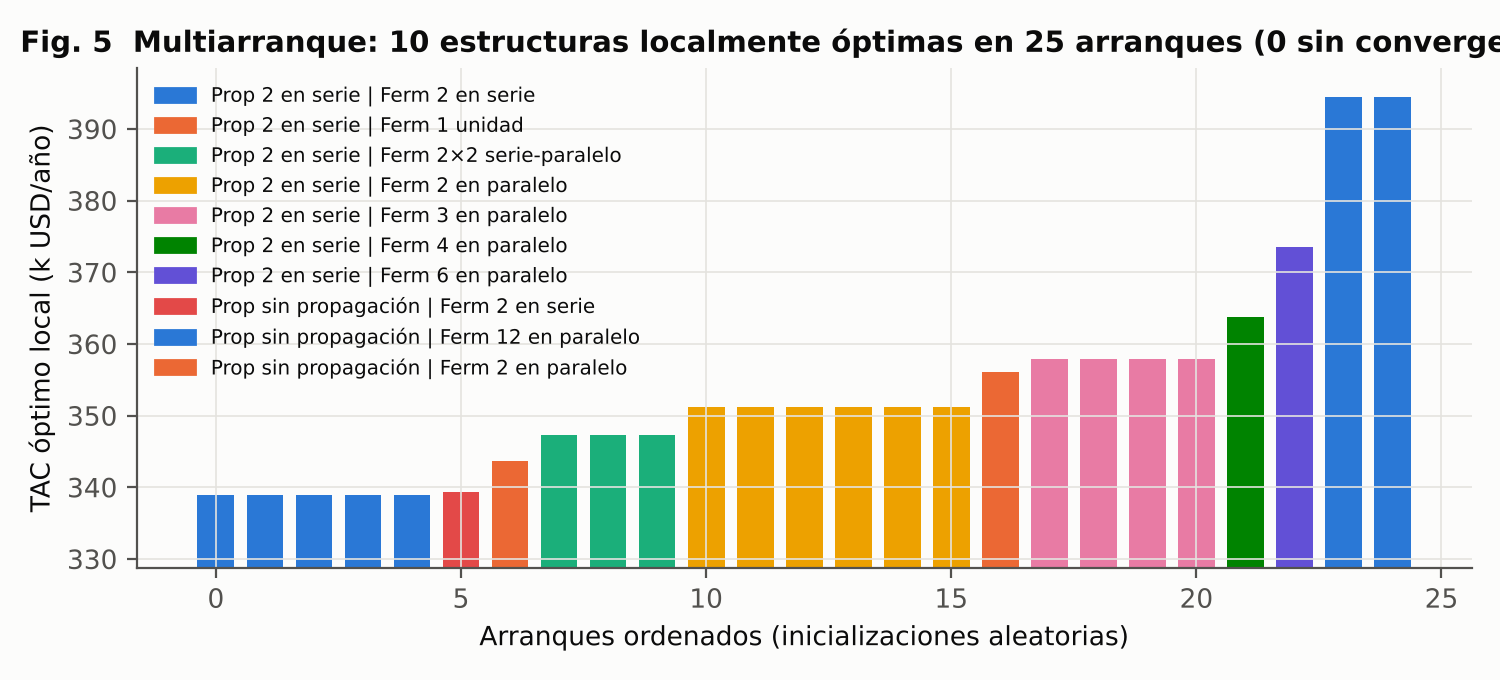
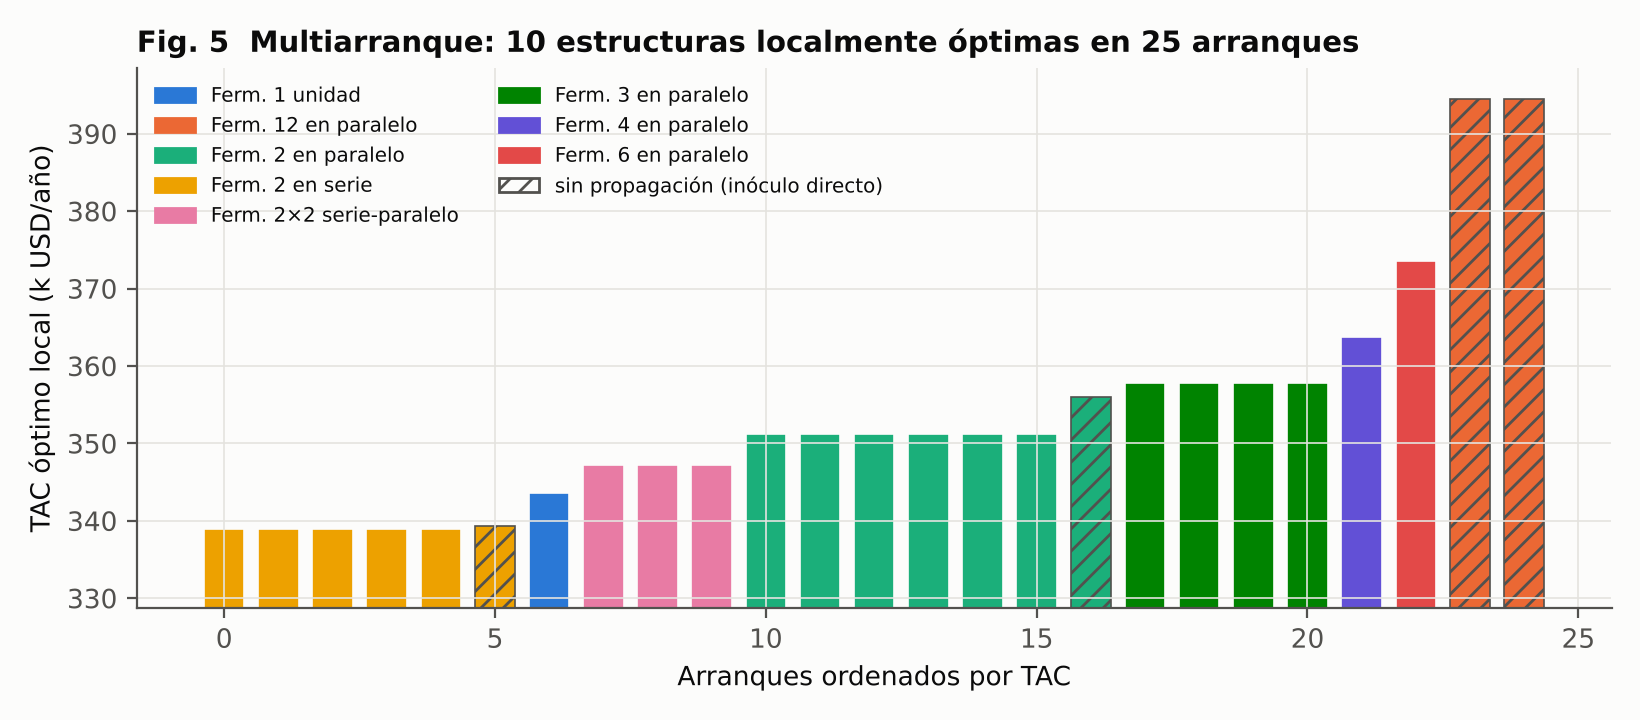
Resultados definitivos de los modelos Corsano-piña
- Sobol (640 reoptimizaciones), comparación jerárquico vs simultáneo con caso
  infactible a 1 h, pulido del mapa de estructuras (incluye 3 en serie)
- Certificación global con SCIP de un subproblema y comparación con Bonmin/IPOPT
- Modelo 2: etanol residual como DBO, asignación del hub bajo escasez
- Modelos 3-4: inóculo <= 10 %, vino >= 55 g/L, destilación dedicada entre lotes B
- Informe HTML y figuras actualizados

Claude-Session: https://claude.ai/code/session_01GdrfYiW8N2vvvUkG2sSV1b

Changed region(s): [[0.0, 0.0309, 1.0, 0.8956], [0.3067, 0.9265, 0.7667, 0.9574]]

diff --git a/modelos_pina/informe.html b/modelos_pina/informe.html
@@ -62,7 +62,7 @@ ol.edits li,ul.tight li{margin:8px 0}
   <p class="kicker">Tesis doctoral · Biorrefinería de piña · Bajo Atrato (Chocó)</p>
   <h1>Modelos de superestructura de Corsano adaptados a la biorrefinería de piña</h1>
   <p class="lede">Cuatro modelos en Python reproducen los marcos de Corsano, Montagna, Iribarren y Aguirre (2004, 2006a, 2006b, 2006c, 2007; libro de 2009). Están adaptados al tren de vino de pulpa, a la línea de etanol del hub de azúcares y a la comparación entre complejo multiplanta y planta multiproducto que la tesis deja abierta en §6.10, §9.6 y §11.3.</p>
-  <div class="meta"><span>CasADi 3.8 · IPOPT · Bonmin · SALib</span><span>Discretización trapezoidal dentro del NLP</span><span>~3 400 optimizaciones resueltas</span></div>
+  <div class="meta"><span>CasADi 3.8 · IPOPT · Bonmin · SALib</span><span>Discretización trapezoidal dentro del NLP</span><span>≈ 3 000 optimizaciones resueltas</span></div>
   <ul class="toc" id="toc">
     <li><a href="#hallazgos">Hallazgos principales</a></li>
     <li><a href="#mapa">Qué se implementó y dónde encaja en la tesis</a></li>
@@ -82,7 +82,7 @@ ol.edits li,ul.tight li{margin:8px 0}
 <div class="findings">
   <div class="finding"><div class="n">12 fermentadores</div><div class="t">La configuración de la tesis (§4.2.4) aparece sin variables binarias cuando el tiempo de llenado se limita a 1 h. Esa protección contra la oxidación cuesta +17,8 % de TAC frente al óptimo libre.</div><div class="s">Modelo 1 · Fig. 6</div></div>
   <div class="finding"><div class="n">10 óptimos locales</div><div class="t">25 arranques del mismo NLP convergen a 10 estructuras distintas, con TAC entre 338,9 y 394,5 k USD/año (16 % de dispersión). En un subproblema certificado con SCIP, Bonmin B-OA (análogo de DICOPT) queda 2–3 % por encima del óptimo global. Esto respalda empíricamente la crítica de §6.10 al uso de CONOPT.</div><div class="s">Modelo 1 · Fig. 5 y tabla E7</div></div>
-  <div class="finding"><div class="n">{{VSS}}</div><div class="t">Ahorro de la optimización simultánea de Corsano frente a la cadena jerárquica actual de la tesis (cinética, luego tiempo de ciclo fijo, luego dimensionamiento). Cuantifica la brecha que §6.10 solo enuncia.</div><div class="s">Modelo 1 · Fig. 8</div></div>
+  <div class="finding"><div class="n">7–9 %</div><div class="t">Ahorro de la optimización simultánea de Corsano frente a la cadena jerárquica actual de la tesis (cinética, luego tiempo de ciclo fijo, luego dimensionamiento). Con llenado de 1 h, la cadena jerárquica ni siquiera tiene solución con 12 fermentadores. Cuantifica la brecha que §6.10 solo enuncia.</div><div class="s">Modelo 1 · Fig. 8</div></div>
   <div class="finding"><div class="n">f ≥ 2</div><div class="t">El reciclo de vinaza de Corsano (2006b) solo se vuelve óptimo si el hub entrega azúcar concentrado al menos 2×. Con las corrientes diluidas de la piña (60–110 g/L), reciclar no compensa.</div><div class="s">Modelo 2 · Fig. 10</div></div>
   <div class="finding"><div class="n">η = 0,905</div><div class="t">Recuperación de etanol en destilación cuando el etanol residual cuenta como DBO en la ec. 38. Sin ese término, el óptimo bota el 20 % del etanol en la vinaza.</div><div class="s">Modelo 2</div></div>
   <div class="finding"><div class="n">+56 k USD/año</div><div class="t">Ventaja de la planta multiproducto con campaña AB frente al complejo multiplanta, incluida la mano de obra (9 frente a 15 operarios). Sin mano de obra, la ventaja cae a 11 k USD/año (0,4 % del beneficio). Igual que en el libro, la diferencia económica es pequeña y la decide el personal.</div><div class="s">Modelos 3–4 · Figs. 14–15</div></div>
@@ -150,7 +150,7 @@ s.a.  TL ≥ T_aj / M_aj        (ZW, fuera de fase)            Σ_a P_a·V_a ≥
 <p>El dato de Murcia Palacios (2013) es un único punto final: 65,31 g/L a 12,5 h. Un punto no puede identificar a la vez µmax y la dosis efectiva de inóculo. La Fig. 3 muestra que la ambigüedad tiene consecuencias de diseño: el tiempo de ciclo, y con él el volumen de los fermentadores, cambia 2,3 veces dentro del conjunto de parámetros compatibles con el dato. Recomendación metodológica: medir una curva temporal de al menos 6 puntos (azúcar, etanol, biomasa) y registrar la dosis de levadura viable. Hasta entonces, propagar µmax como incertidumbre, que es lo que hace el análisis de Sobol más abajo.</p>
 <h3>Óptimo base: el modelo reinventa el pie de cuba</h3>
 </div>
-<figure><img src="figs/fig04_m1_optimo_base.png" alt="Diagrama de Gantt y perfiles de concentración del óptimo base"><figcaption>Fig. 4. Óptimo base: una cascada de propagación y dos fermentadores en serie de 0,55 m³ y 10,72 m³, con TL = 10,38 h y TAC = 338,9 k USD/año (8,7 % capital, 91,3 % operación).</figcaption></figure>
+<figure><img src="figs/fig04_m1_optimo_base.png" alt="Diagrama de Gantt y perfiles de concentración del óptimo base"><figcaption>Fig. 4. Óptimo base de la superestructura original (11 alternativas): una cascada de propagación y dos fermentadores en serie de 0,55 m³ y 10,72 m³, con TL = 10,38 h y TAC = 338,9 k USD/año (8,7 % capital, 91,3 % operación). Al añadir la alternativa de 3 en serie (Fig. 7), el óptimo baja a 337,2 k USD/año.</figcaption></figure>
 <div class="prose">
 <p>La estructura elegida es la de Corsano et al. (2006b), con una unidad de biomasa y dos fermentadores en serie, y en enología corresponde al pie de cuba. Un fermentador pequeño (5 % del volumen) recibe el cultivo del propagador y mosto sin diluir, llega a X ≈ 11,7 g/L y siembra el fermentador principal con X<sub>0</sub> ≈ 0,6 g/L. El optimizador llega a esa práctica industrial sin que nadie se la imponga. El capital pesa poco (8,7 %): el TAC lo dominan el jugo y el inóculo, así que la estructura óptima se decide sobre todo por el uso del sustrato y no por el tamaño de los equipos.</p>
 </div>
@@ -165,11 +165,21 @@ s.a.  TL ≥ T_aj / M_aj        (ZW, fuera de fase)            Σ_a P_a·V_a ≥
 <h3>Mapa de estructuras: exponente de costo y escala</h3>
 </div>
 <figure><img src="figs/fig07_m1_mapa_b_escala.png" alt="Mapa de la estructura óptima según el exponente de costo y la escala de producción"><figcaption>Fig. 7. Estructura de fermentación óptima en 32 combinaciones (b, escala), después de reoptimizar cada celda con cada estructura candidata fija.</figcaption></figure>
-<div class="prose">{{E5B_TEXT}}</div>
+<div class="prose"><p>El NLP completo con 5 arranques por celda dio un mapa ruidoso. Se pulió reoptimizando cada celda con cada estructura candidata fija (8 estructuras × 2 arranques; problemas más pequeños y mejor condicionados) y tomando el mínimo, como hace Corsano (2006a, §5) con su secuencia de MINLP. El pulido mejoró 17 de las 32 celdas en más de 1 % (1,8 % en promedio y hasta 8,1 %). Detectó además que la superestructura del caso base no incluía la alternativa <b>3 en serie</b>, que resulta la mejor para b ≥ 0,5. Con ella el caso base baja de 338,9 a 337,2 k USD/año (−0,5 %) y la propagación separada desaparece: la cascada de tres fermentadores siembra con levadura seca y hace de pie de cuba.</p>
+<p>El mapa pulido es monótono y tiene interpretación física. Con b ≤ 0,4 la concavidad es tan fuerte que una unidad pequeña cuesta casi lo mismo que una grande, y el óptimo usa solo 2 fermentadores en serie. Con b ≥ 0,5 conviene un tercero. La propagación aerobia separada solo vuelve a aparecer con b ≥ 0,7, cuando los equipos pequeños dejan de ser caros. La prueba de consistencia también se cumple: con b = 1, sin economía de escala, el TAC por unidad de producción es idéntico en las cuatro escalas.</p>
+<p>Lección metodológica para §6.1 y §6.9: la superestructura sin binarias es tan buena como su lista de alternativas. Corsano (2004) fija la cota superior de unidades en serie resolviendo primero un problema relajado; omitir ese paso, como hizo aquí la primera corrida, deja fuera el óptimo sin aviso. El protocolo de verificación de la tesis debería incluir una prueba explícita de completitud de la superestructura.</p></div>
 
 <div class="prose"><h3>Jerárquico frente a simultáneo: el costo de la cadena actual de la tesis</h3></div>
 <figure><img src="figs/fig08_m1_jerarquico_vs_simultaneo.png" alt="TAC de las estrategias jerárquica, intermedia y simultánea para tres tiempos de llenado"><figcaption>Fig. 8. Jerárquico: la cinética fija T = 12,5 h y X<sub>0</sub> = 0,2 g/L de levadura seca, y después se dimensiona. Intermedio: T fijo, inóculo libre. Simultáneo: Corsano.</figcaption></figure>
-<div class="prose">{{E6_TEXT}}</div>
+<div class="prose"><div class="tbl"><table>
+<thead><tr><th>τ llenado</th><th>Jerárquico</th><th>Intermedio</th><th>Simultáneo</th><th>Ahorro total</th><th>Parte por inóculo y propagación</th><th>Parte por tiempo y estructura</th></tr></thead>
+<tbody>
+<tr><td>12,5 h</td><td class="num">364,6 (1 unidad)</td><td class="num">343,5</td><td class="num">338,9 (2 en serie)</td><td class="num">−7,1 %</td><td class="num">82 %</td><td class="num">18 %</td></tr>
+<tr><td>3 h</td><td class="num">391,8 (6 en paralelo)</td><td class="num">374,5</td><td class="num">356,4 (2×2)</td><td class="num">−9,0 %</td><td class="num">49 %</td><td class="num">51 %</td></tr>
+<tr><td>1 h</td><td class="num">infactible</td><td class="num">infactible</td><td class="num">399,2 (12 en paralelo)</td><td class="num">—</td><td class="num">—</td><td class="num">—</td></tr>
+</tbody></table></div>
+<p>TAC en k USD/año. La cadena jerárquica, que es la de la tesis (§4.2 y §6.10), cuesta entre 7,1 y 9,0 % más que la formulación simultánea de Corsano. La descomposición muestra dónde está la pérdida. Sin restricción de llenado, el 82 % del ahorro viene de optimizar el inóculo y la propagación: la cadena jerárquica fija X<sub>0</sub> = 0,2 g/L de levadura seca. Cuando la restricción de oxidación se activa (τ = 3 h), la mitad del ahorro viene de optimizar a la vez el tiempo de fermentación y la estructura: el óptimo simultáneo pasa de 6 unidades en paralelo a un arreglo 2×2. Con τ = 1 h la cadena jerárquica no tiene solución. Con T fijo en 12,5 h necesitaría al menos 13 unidades; la optimización simultánea acorta la fermentación a 12 h y cumple con 12.</p>
+<p>Esto responde la pregunta que §6.10 deja abierta, si el compromiso entre tiempo de ciclo y tamaño de reactor existe en la cinética de la tesis: sí existe, y vale entre 7 y 9 % del TAC. La justificación de tractabilidad de Kallrath (2021) sigue siendo válida para el MINLP completo. Pero la pérdida ya no es hipotética, y la tesis puede citarla como costo cuantificado de la decisión polilítica.</p></div>
 
 <div class="prose"><h3>NLP sin binarias frente a MINLP</h3>
 <p>Para comparar como en §5 de Corsano (2006a), se fijó una etapa por operación y el número de unidades en paralelo se dejó como entero (Bonmin):</p></div>
@@ -205,7 +215,12 @@ s.a.  TL ≥ T_aj / M_aj        (ZW, fuera de fase)            Σ_a P_a·V_a ≥
 <h3>Sensibilidad global (Sobol)</h3>
 </div>
 <figure><img src="figs/fig09_m1_sobol.png" alt="Índices de Sobol de primer orden y totales del TAC óptimo"><figcaption>Fig. 9. Cada muestra de Saltelli es una reoptimización completa de la superestructura con 2 arranques. Así se mide la sensibilidad del óptimo, no la de un diseño fijo.</figcaption></figure>
-<div class="prose">{{E8_TEXT}}</div>
+<div class="prose"><p>Se hicieron 640 reoptimizaciones (muestreo de Saltelli, N = 64, 8 factores) sin fallos de convergencia. El TAC óptimo varía entre 210 y 496 k USD/año (percentiles 5–95; coeficiente de variación 26 %). Los índices separan dos preguntas distintas:</p>
+<ul class="tight">
+<li><b>Cuánto cuesta.</b> El costo del jugo de rechazo explica casi toda la varianza del TAC (S1 = 0,955; ST = 0,942). Cada USD/m³ de jugo suma 7 838 USD/año. Ningún otro factor pasa de ST = 0,03: Y<sub>P/S</sub> llega a 0,029 y los parámetros de costo de equipos, el exponente b y la electricidad quedan por debajo de 0,01. El índice del jugo tiene un intervalo de confianza amplio (±0,25) por el tamaño de muestra, pero su dominancia no depende de esa incertidumbre.</li>
+<li><b>Qué se construye.</b> El número de fermentadores óptimo no depende de los precios. Depende de la cinética: correlación de −0,36 con µmax y −0,28 con Pmax. Una levadura más lenta o más sensible al etanol pide más unidades (Fig. 9, derecha). En 54 % de las muestras el óptimo tiene 2 fermentadores, en 18 % tiene 4, en 14 % uno solo y en 13 % tres.</li>
+</ul>
+<p>Para la tesis: el precio del jugo de fruta de rechazo, y con él la logística de acopio en el Bajo Atrato (§3.3), es la variable económica que más importa medir. La calibración cinética del punto 2 de la sección de cambios es la que más importa para el diseño físico.</p></div>
 </section>
 
 <section id="m2">
@@ -299,6 +314,7 @@ Campaña c: N_c · Σ_q d(c_q, c_q+1) ≤ H,    N_A = n_A(c)·N_c,   N_B = n_B(c
 <li>El inóculo se limita a ≤ 10 % del lote, con pitching ≥ 0,5 g/L, y el vino se exige ≥ 55 g/L de etanol (7,0 % v/v). Sin esas restricciones, el modelo multiproducto diluía el vino con el mosto del propagador.</li>
 <li>Solo el subproblema de una etapa tiene certificado de optimalidad global (SCIP). Para los modelos completos, el multiarranque y el pulido por estructura reducen el riesgo, pero no lo eliminan. El paso siguiente natural es llevar la formulación reformulada de <code>m1_global.py</code> a la superestructura completa con SCIP o BARON.</li>
 <li>El SPC no es una relajación de las campañas mixtas bajo espera cero (ver Modelo 3).</li>
+<li>Los experimentos E3, E4, E6 y E8 del Modelo 1 usan la superestructura original, sin la alternativa de 3 en serie. Según el pulido de la Fig. 7, incluirla baja el TAC entre 0,2 % y 8 % según la celda (0,5 % en el caso base). Las conclusiones de esos experimentos no cambian, pero las cifras absolutas quedan ligeramente sobreestimadas.</li>
 </ul>
 </section>
 

diff --git a/modelos_pina/figuras.py b/modelos_pina/figuras.py
@@ -266,10 +266,15 @@ def fig_m1_hier():
         vals = [d[t][k]["TAC"] / 1e3 if d[t][k].get("ok") else np.nan for t in taus]
         ax.bar(np.arange(len(taus)) + (q - 1) * w, vals, width=w - 0.02, color=C[q], label=lab)
     for i, t in enumerate(taus):
-        h, s = d[t]["jerarquico"]["TAC"], d[t]["simultaneo"]["TAC"]
-        ax.text(i + w, s / 1e3 + 8, f"−{(1 - s / h) * 100:.1f}%", ha="center", fontsize=8, color=INK)
+        h, s_ = d[t]["jerarquico"].get("TAC"), d[t]["simultaneo"]["TAC"]
+        if h:
+            ax.text(i + w, s_ / 1e3 + 8, f"−{(1 - s_ / h) * 100:.1f}%", ha="center", fontsize=8, color=INK)
+        else:
+            ax.text(i - w, 20, "infactible\n(>12 unidades)", ha="center", fontsize=7.5, color=INK2, rotation=90, va="bottom")
+        if not d[t]["intermedio"].get("TAC"):
+            ax.text(i, 20, "infactible", ha="center", fontsize=7.5, color=INK2, rotation=90, va="bottom")
     ax.set_xticks(range(len(taus))); ax.set_xticklabels([f"τ = {float(t):g} h" for t in taus])
-    ax.set_ylabel("TAC (k USD/año)"); ax.legend(fontsize=8)
+    ax.set_ylabel("TAC (k USD/año)"); ax.set_ylim(0, 500); ax.legend(fontsize=8, loc="upper left", ncol=3)
     ax.set_title("Fig. 8  Valor de la optimización simultánea frente a la jerárquica (§6.10 de la tesis)")
     save(fig, "fig08_m1_jerarquico_vs_simultaneo.png")
 
@@ -290,11 +295,14 @@ def fig_m1_sobol():
     ax[0].set_yticks(y); ax[0].set_yticklabels([nm[i] for i in o]); ax[0].legend(loc="lower right")
     ax[0].set_xlabel("Índice de Sobol"); ax[0].set_title("Sensibilidad global del TAC óptimo")
     X = np.array(d["X"]); Y = np.array([r["TAC"] for r in d["Y"]])
-    k = int(np.argmax(ST))
     nf = np.array([r.get("nferm", np.nan) for r in d["Y"]])
-    sc = ax[1].scatter(X[:, k], Y / 1e3, c=nf, s=9, cmap=matplotlib.colors.ListedColormap(SEQ[1:]), alpha=0.85)
-    cb = fig.colorbar(sc, ax=ax[1]); cb.set_label("Fermentadores en el óptimo")
-    ax[1].set_xlabel(nm[k]); ax[1].set_ylabel("TAC (k USD/año)"); ax[1].set_title(f"TAC vs el factor dominante ({nm[k]})")
+    i_mu = d["problem"]["names"].index("mu_max"); i_pm = d["problem"]["names"].index("Pmax")
+    rng = np.random.default_rng(0)
+    sc = ax[1].scatter(X[:, i_mu], nf + rng.uniform(-0.18, 0.18, len(nf)), c=X[:, i_pm], s=10,
+                       cmap=matplotlib.colors.ListedColormap(SEQ[1:]), alpha=0.9)
+    cb = fig.colorbar(sc, ax=ax[1]); cb.set_label("Pmax (g/L)")
+    ax[1].set_xlabel("µmax (1/h)"); ax[1].set_ylabel("Fermentadores en el óptimo")
+    ax[1].set_title("La estructura responde a la cinética, no a los precios")
     fig.suptitle(f"Fig. 9  Análisis de Sobol (Saltelli, {len(Y)} reoptimizaciones; {d['n_fail']} sin convergencia)",
                  fontsize=10, fontweight="bold", x=0.01, ha="left")
     save(fig, "fig09_m1_sobol.png")

diff --git a/modelos_pina/m1_experimentos.py b/modelos_pina/m1_experimentos.py
@@ -151,9 +151,19 @@ def E6():
         for name, kw in cases.items():
             if "op2" in kw:   # sólo alternativas capaces de cumplir T2=12.5 h con TL<=tau
                 kw = dict(kw, op2=[a for a in kw["op2"] if a[0] * tau >= 12.5 - 1e-9])
+                if not kw["op2"]:
+                    out[tau][name] = dict(ok=False, TAC=None, label="infactible (requiere > 12 unidades)", active=[])
+                    print("E6", tau, name, "INFACTIBLE"); continue
             rs = pool_map(multistart_jobs(dict(kw, tau_fill=tau), range(8)))
             b = best_of(rs)
             out[tau][name] = slim(b)
+            if not b.get("ok"):
+                out[tau][name] = dict(ok=False, TAC=None, label="infactible", active=[])
+                print("E6", tau, name, "INFACTIBLE"); continue
+            if not np.isfinite(b.get("TAC", np.inf)) or not b.get("ok"):
+                out[tau][name] = dict(ok=False, TAC=None, label="infactible", active=[])
+                print("E6", tau, name, "INFACTIBLE")
+                continue
             print("E6", tau, name, round(b["TAC"]), b["label"])
     json.dump(out, open(f"{RES}/m1_E6.json", "w"))
 
